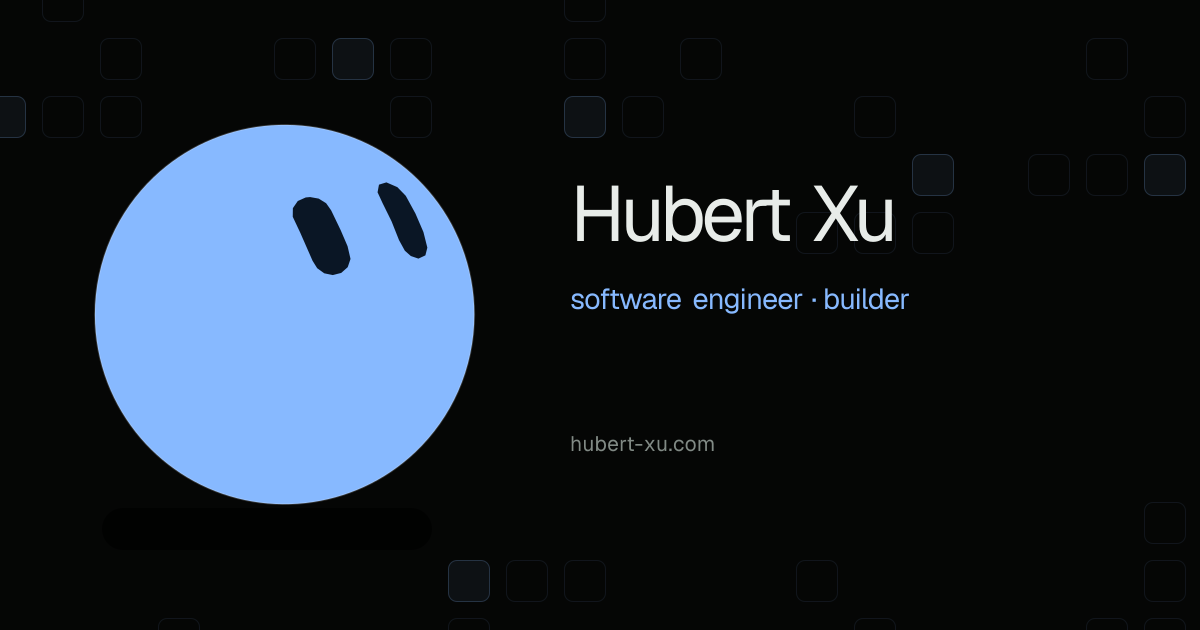
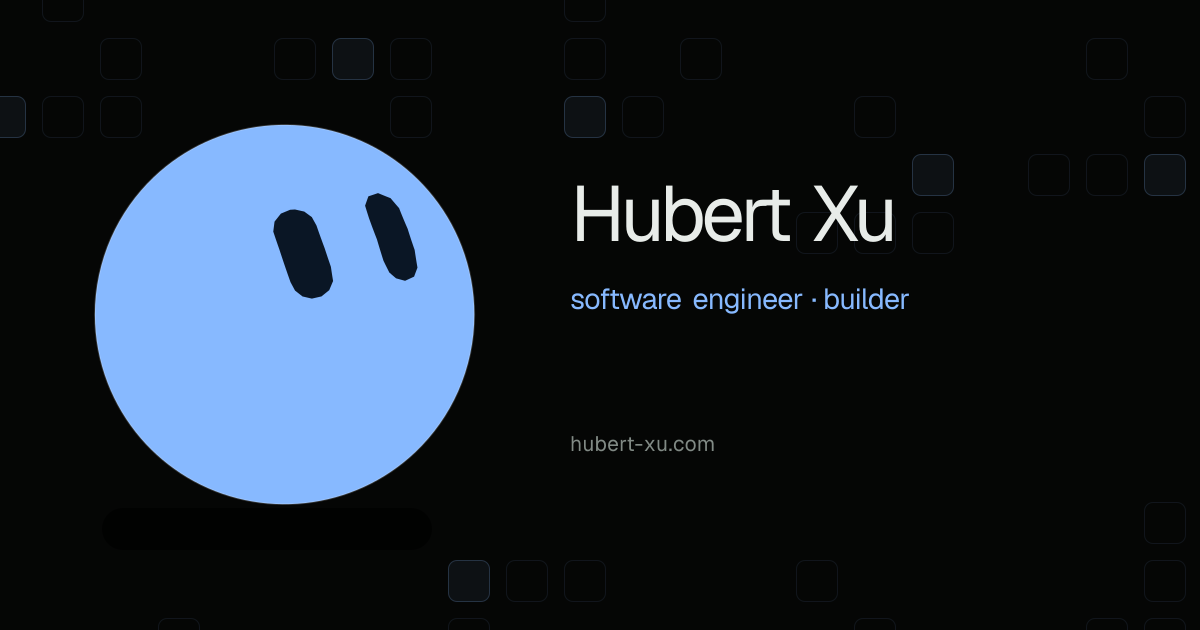
feat: refine lumi resting pose

Changed region(s): [[0.2158, 0.2714, 0.37, 0.4825]]

diff --git a/lib/__tests__/orbEyes.test.ts b/lib/__tests__/orbEyes.test.ts
@@ -2,6 +2,8 @@ import {
   BASE_GAZE,
   EYE_SCALE,
   LEFT_EYE_VERTICES,
+  RIGHT_EYE_VERTICES,
+  SPHERE_CENTER,
   SPHERE_RADIUS,
   projectEyePath,
   projectEyePoint,
@@ -18,21 +20,33 @@ describe('orb eye geometry', () => {
       { x: 0, y: 2 },
     ]
 
-    expect(EYE_SCALE).toBe(1.12)
     expect(scalePolygon(rectangle, EYE_SCALE)).toEqual([
-      { x: -0.2400000000000002, y: -0.1200000000000001 },
-      { x: 4.24, y: -0.1200000000000001 },
-      { x: 4.24, y: 2.12 },
-      { x: -0.2400000000000002, y: 2.12 },
+      { x: -0.43999999999999995, y: -0.21999999999999997 },
+      { x: 4.4399999999999995, y: -0.21999999999999997 },
+      { x: 4.4399999999999995, y: 2.2199999999999998 },
+      { x: -0.43999999999999995, y: 2.2199999999999998 },
     ])
   })
 
-  it('keeps the approved top-right pose exact at rest', () => {
-    for (const point of LEFT_EYE_VERTICES) {
-      const projected = projectEyePoint(point, BASE_GAZE)
-      expect(projected.x).toBeCloseTo(point.x, 6)
-      expect(projected.y).toBeCloseTo(point.y, 6)
-    }
+  it('rests closer to the sphere center while keeping a top-right gaze', () => {
+    const restingPoints = [...LEFT_EYE_VERTICES, ...RIGHT_EYE_VERTICES]
+      .map(point => projectEyePoint(point, BASE_GAZE))
+    const restingCenter = restingPoints.reduce(
+      (center, point) => ({
+        x: center.x + point.x / restingPoints.length,
+        y: center.y + point.y / restingPoints.length,
+      }),
+      { x: 0, y: 0 },
+    )
+
+    expect(restingCenter.x).toBeGreaterThan(SPHERE_CENTER.x)
+    expect(restingCenter.y).toBeLessThan(SPHERE_CENTER.y)
+    expect(
+      Math.hypot(
+        restingCenter.x - SPHERE_CENTER.x,
+        restingCenter.y - SPHERE_CENTER.y,
+      ),
+    ).toBeLessThan(58)
   })
 
   it('turns the eye slant with the sphere surface', () => {

diff --git a/lib/orbEyes.ts b/lib/orbEyes.ts
@@ -4,7 +4,8 @@ export type Point3D = Point2D & { z: number }
 export const SPHERE_CENTER = { x: 114.2705, y: 114.228 }
 export const SPHERE_RADIUS = 114.228
 export const SURFACE_LIMIT = 0.62
-export const EYE_SCALE = 1.12
+export const EYE_SCALE = 1.22
+const REST_GAZE_INSET = 0.78
 
 const EYE_ANCHOR = { x: 160, y: 62.5 }
 
@@ -117,7 +118,10 @@ function frameFromNormal(normal: Point3D): SurfaceFrame {
 const baseNormal = normalize(liftPoint(EYE_ANCHOR))
 const baseFrame = frameFromNormal(baseNormal)
 
-export const BASE_GAZE = { x: baseNormal.x, y: baseNormal.y }
+export const BASE_GAZE = {
+  x: baseNormal.x * REST_GAZE_INSET,
+  y: baseNormal.y * REST_GAZE_INSET,
+}
 
 function rotateBetweenFrames(point: Point3D, from: SurfaceFrame, to: SurfaceFrame) {
   const localRight = dot(point, from.right)

diff --git a/app/__tests__/metadata.test.ts b/app/__tests__/metadata.test.ts
@@ -20,7 +20,7 @@ describe('site metadata', () => {
       locale: 'en_CA',
       type: 'website',
       images: [{
-        url: '/social-card.png',
+        url: '/social-card.png?v=2',
         width: 1200,
         height: 630,
         alt: 'lumi',
@@ -32,7 +32,7 @@ describe('site metadata', () => {
       title: 'Hubert Xu',
       description: 'Software engineer and builder.',
       images: [{
-        url: '/social-card.png',
+        url: '/social-card.png?v=2',
         width: 1200,
         height: 630,
         alt: 'lumi',

diff --git a/app/layout.tsx b/app/layout.tsx
@@ -16,7 +16,7 @@ export const metadata: Metadata = {
     locale: 'en_CA',
     type: 'website',
     images: [{
-      url: '/social-card.png',
+      url: '/social-card.png?v=2',
       width: 1200,
       height: 630,
       alt: 'lumi',
@@ -28,7 +28,7 @@ export const metadata: Metadata = {
     title: 'Hubert Xu',
     description: 'Software engineer and builder.',
     images: [{
-      url: '/social-card.png',
+      url: '/social-card.png?v=2',
       width: 1200,
       height: 630,
       alt: 'lumi',
